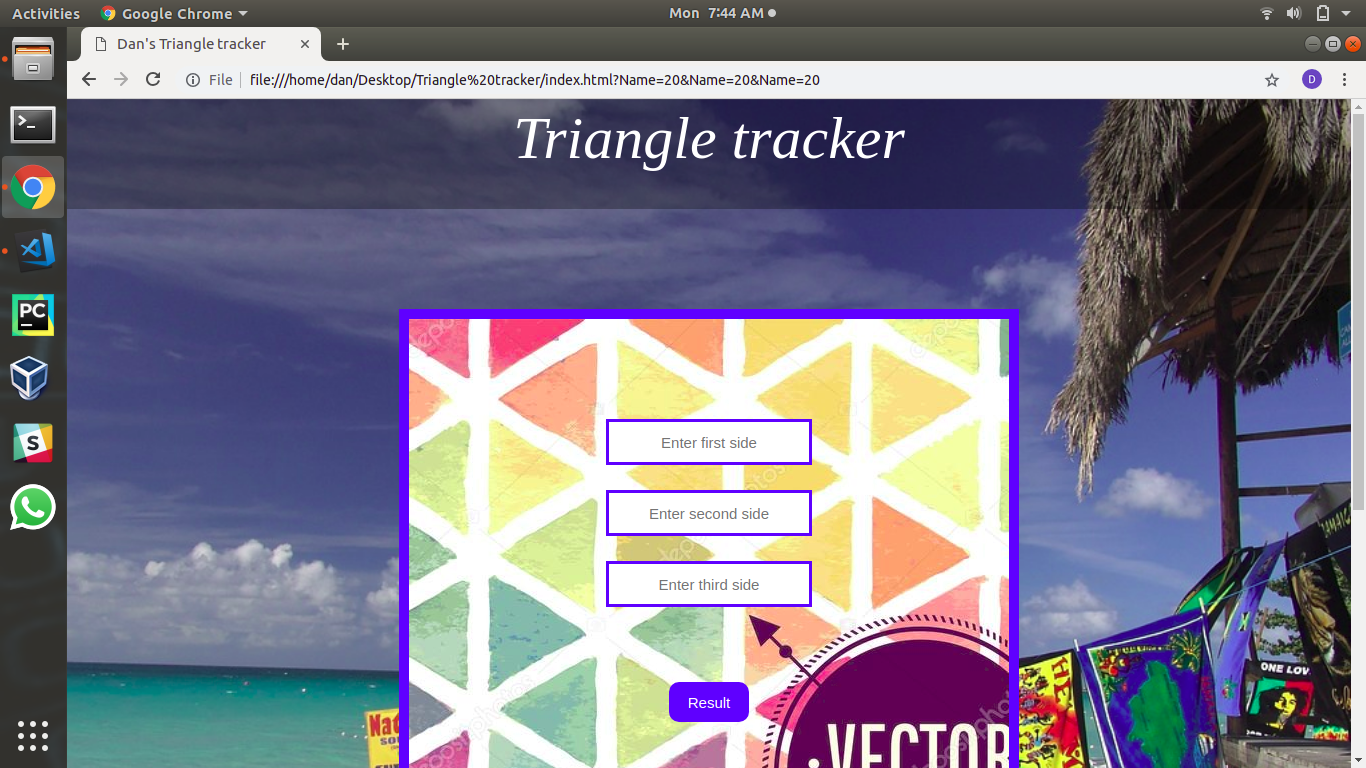
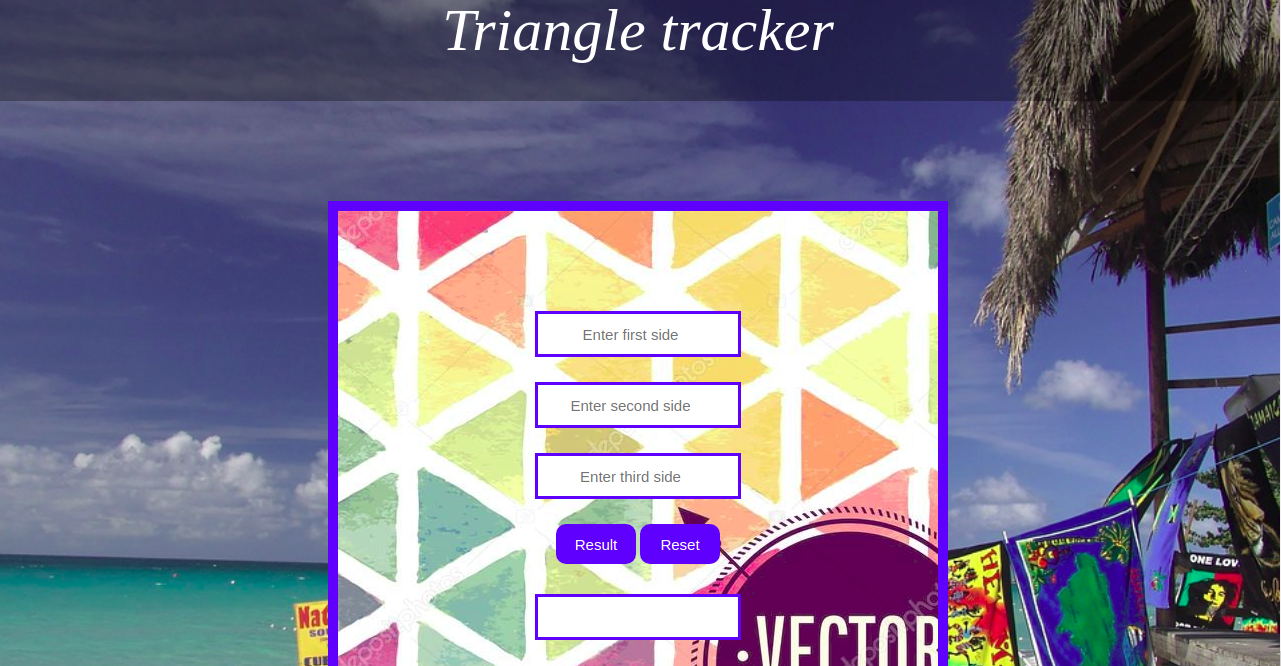
Add image of triangle tracker project

diff --git a/js/triangletracker.js b/js/triangletracker.js
@@ -3,22 +3,28 @@ function tracker() {
     sides.push(document.getElementById("side1").value);
     sides.push(document.getElementById("side2").value);
     sides.push(document.getElementById("side3").value);
+    var display = document.querySelector(#display);
 
     var [side1, side2, side3] = sides;
     if (side1.length === 0 || side2.length === 0 || side3.length === 0) {} else {
         userInput(side1, side2, side3);
     }
+
+
+
+    function userInput(side1, side2, side3) {
+        if (side1 === side2 && side2 === side3) {
+            display.innerHTML = < p > Equilateral triangle. < /p>;
+        } else if (side1 === side2 || side1 === side3 || side3 === side2) {
+            display.innerHTML = < p > Isosceles triangle < /p>;
+        } else if ((side1 !== side2 && side2 !== side3)) {
+            display.innerHTML = < p > Scalene triangle. < /p>;
+        } else if (side1 >= (side2 + side3) && side2 >= (side3 + side1) && side3 >= (side1 + side2)) {
+            display.innerHTML = < p > NOT a triangle at all. < /p>;
+        }
+    }
 }
 
-
-function userInput(side1, side2, side3) {
-    if (side1 === side2 && side2 === side3) {
-        display.innerHTML = < p > Equilateral triangle. < /p>;
-    } else if (side1 === side2 || side1 === side3 || side3 === side2) {
-        display.innerHTML = < p > Isosceles triangle < /p>;
-    } else if ((side1 !== side2 && side2 !== side3)) {
-        display.innerHTML = < p > Scalene triangle. < /p>;
-    } else if (side1 >= (side2 + side3) && side2 >= (side3 + side1) && side3 >= (side1 + side2)) {
-        display.innerHTML = < p > NOT a triangle at all. < /p>;
-    }
+function reset() {
+    location.reload();
 }

diff --git a/index.html b/index.html
@@ -17,12 +17,15 @@
         <div class="main">
             <div class="borderindex">
                 <div align="center">
-                    <form style="margin-top: 100px;" <input name="Name" id="side1" type="number" value="" placeholder="Enter first side">
+                    <form style="margin-top: 100px;">
+                        <input name="Name" id="side1" type="number" value="" placeholder="Enter first side">
                         <input name="Name" id="side2" type="number" value="" placeholder="Enter second side">
                         <input name="Name" id="side3" type="number" value="" placeholder="Enter third side">
                         <div>
-                            <button onclick="tracker()" style="margin-top: 50px;" class="result" type="submit">Result</button>
+                            <button onclick="tracker()" class="result" type="submit">Result</button>
+                            <button onclick="reset()" class="reset" type="submit">Reset</button>
                         </div>
+                        <input style="margin-top: 30px;" name="Name" id="dispaly" type="text" value="" placeholder="">
 
                     </form>
                     <div class="panel panel-default">
@@ -36,10 +39,11 @@
     </div>
     <div class="footer">
         <div class="wrapper">
-            <p> Moringa School intern</p>
+            <p> Moringa School</p>
             <p>Copyright 2018. Triangle tracker. All Rights Reserved.</p>
         </div>
     </div>
+
 </body>
 
 </html>

diff --git a/css/style.css b/css/style.css
@@ -81,6 +81,18 @@ body {
     border: 3px solid blue;
 }
 
+.reset {
+    width: 80px;
+    margin: auto;
+    height: 40px;
+    background-color: blue;
+    text-align: center;
+    color: white;
+    font-size: 15px;
+    border-radius: 10px;
+    border: 3px solid blue;
+}
+
 form {
     margin: 20px auto;
     width: 350px;
